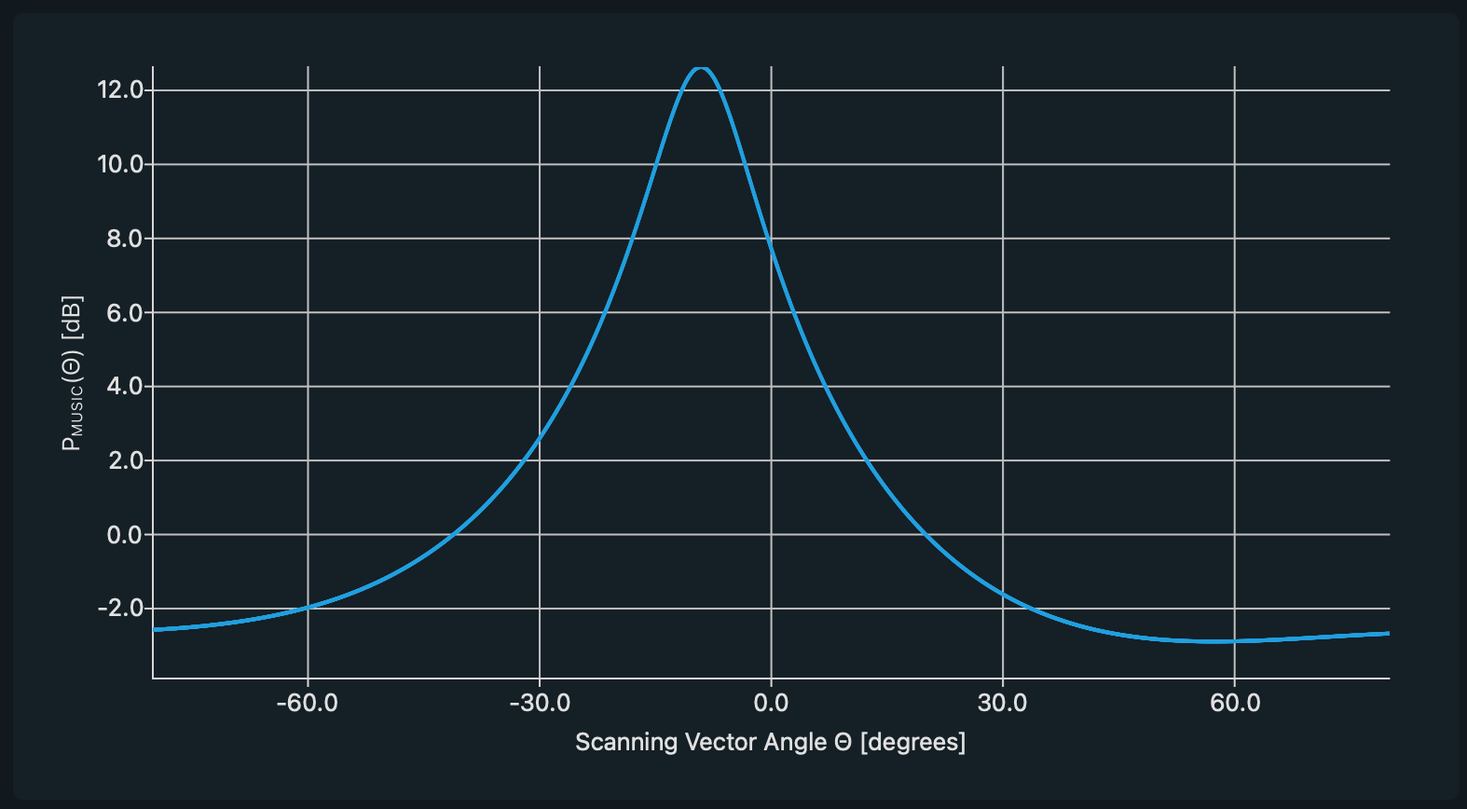
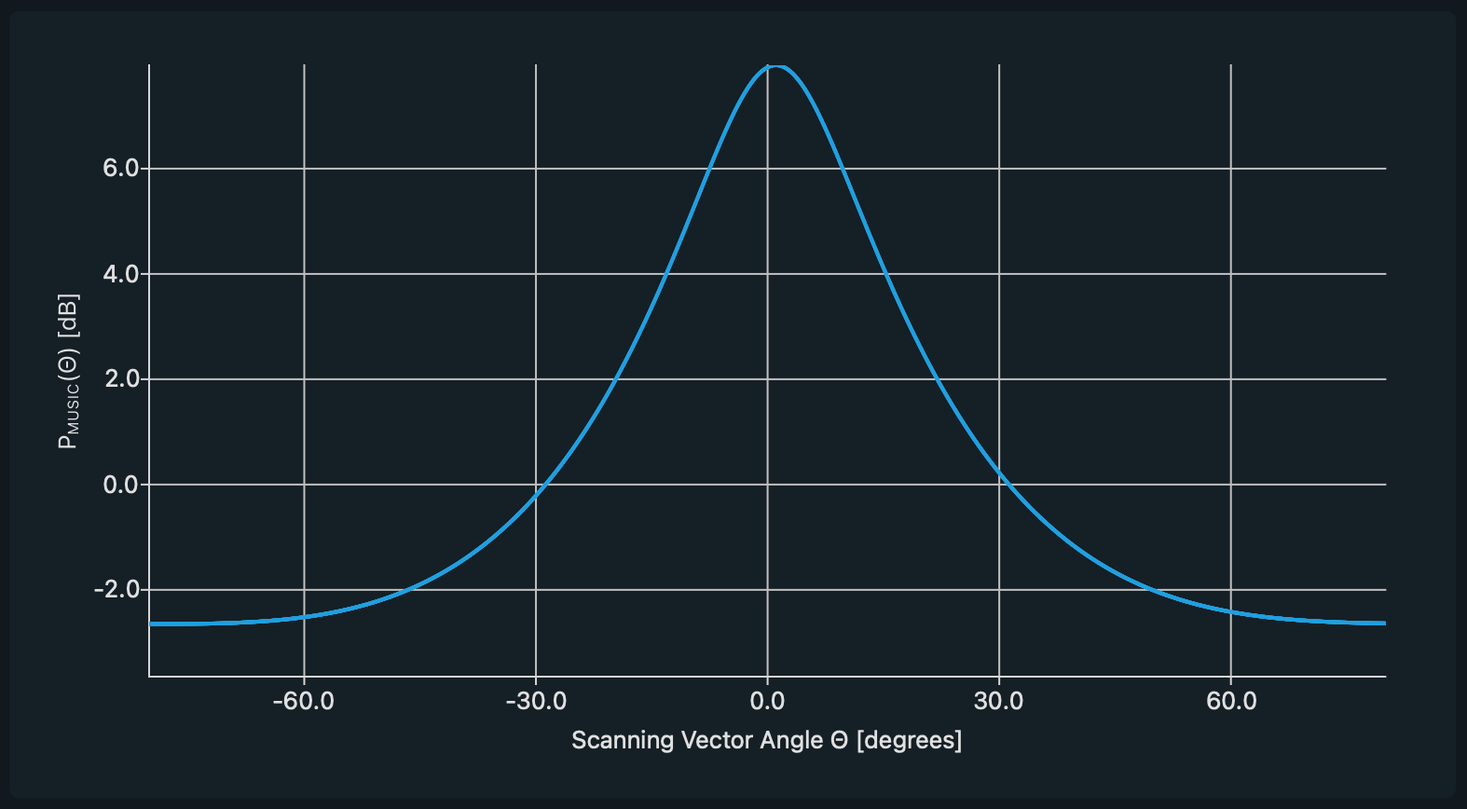
New Measurement

diff --git a/matlab/music_125MHz_M256_1m_0deg/cfr.m b/matlab/music_125MHz_M256_1m_0deg/cfr.m
@@ -1,116 +1,116 @@
 % Auto-generated MATLAB script
 clear;
-CH0_316 = [ ...
+CH0_4515 = [ ...
 0 + 1i*0, 0 + 1i*0, 0 + 1i*0, 0 + 1i*0, 0 + 1i*0,  ...
 0 + 1i*0, 0 + 1i*0, 0 + 1i*0, 0 + 1i*0, 0 + 1i*0,  ...
 0 + 1i*0, 0 + 1i*0, 0 + 1i*0, 0 + 1i*0, 0 + 1i*0,  ...
 0 + 1i*0, 0 + 1i*0, 0 + 1i*0, 0 + 1i*0, 0 + 1i*0,  ...
 0 + 1i*0, 0 + 1i*0, 0 + 1i*0, 0 + 1i*0, 0 + 1i*0,  ...
-0 + 1i*0, -1.18554 + 1i*-0.482535, -1.2277 + 1i*-0.481434, -1.26947 + 1i*-0.479128, -1.31084 + 1i*-0.475634,  ...
--1.35177 + 1i*-0.470973, -1.39227 + 1i*-0.465165, -1.4323 + 1i*-0.458228, -1.47184 + 1i*-0.450181, -1.51089 + 1i*-0.441045,  ...
--1.54942 + 1i*-0.43084, -1.58742 + 1i*-0.419584, -1.62487 + 1i*-0.407298, -1.66176 + 1i*-0.394, -1.69806 + 1i*-0.379712,  ...
--1.73378 + 1i*-0.364454, -1.76888 + 1i*-0.348243, -1.80336 + 1i*-0.331102, -1.83721 + 1i*-0.313048, -1.87041 + 1i*-0.294105,  ...
--1.90295 + 1i*-0.274289, -1.93482 + 1i*-0.253622, -1.966 + 1i*-0.232124, -1.99649 + 1i*-0.209813, -2.02626 + 1i*-0.186712,  ...
--2.05533 + 1i*-0.162838, -2.08366 + 1i*-0.138213, -2.11126 + 1i*-0.112857, -2.13812 + 1i*-0.0867883, -2.16422 + 1i*-0.0600278,  ...
--2.18955 + 1i*-0.0325956, -2.21411 + 1i*-0.0045127, -2.23789 + 1i*0.0242043, -2.26089 + 1i*0.0535323, -2.28309 + 1i*0.0834538,  ...
--2.30449 + 1i*0.113946, -2.32508 + 1i*0.144992, -2.34485 + 1i*0.176572, -2.36381 + 1i*0.208663, -2.38194 + 1i*0.241249,  ...
--2.39924 + 1i*0.274309, -2.4157 + 1i*0.307823, -2.43132 + 1i*0.341771, -2.4461 + 1i*0.376135, -2.46003 + 1i*0.410894,  ...
--2.4731 + 1i*0.446029, -2.48533 + 1i*0.481521, -2.49669 + 1i*0.51735, -2.50719 + 1i*0.553497, -2.51683 + 1i*0.589942,  ...
--2.5256 + 1i*0.626667, -2.5335 + 1i*0.66365, -2.54054 + 1i*0.700874, -2.5467 + 1i*0.73832, -2.55199 + 1i*0.775969,  ...
--2.55641 + 1i*0.813801, -2.55996 + 1i*0.851798, -2.56264 + 1i*0.889939, -2.56445 + 1i*0.928208, -2.56538 + 1i*0.966584,  ...
--2.56545 + 1i*1.00505, -2.56464 + 1i*1.04358, -2.56297 + 1i*1.08217, -2.56043 + 1i*1.12079, -2.55702 + 1i*1.15942,  ...
--2.55276 + 1i*1.19805, -2.54764 + 1i*1.23666, -2.54166 + 1i*1.27522, -2.53482 + 1i*1.31373, -2.52714 + 1i*1.35216,  ...
--2.51861 + 1i*1.39049, -2.50924 + 1i*1.42871, -2.49904 + 1i*1.4668, -2.488 + 1i*1.50474, -2.47613 + 1i*1.54251,  ...
--2.46345 + 1i*1.5801, -2.44994 + 1i*1.61748, -2.43563 + 1i*1.65464, -2.4205 + 1i*1.69157, -2.40458 + 1i*1.72824,  ...
--2.38788 + 1i*1.76463, -2.37038 + 1i*1.80074, -2.35211 + 1i*1.83654, -2.33307 + 1i*1.87202, -2.31326 + 1i*1.90716,  ...
--2.29271 + 1i*1.94194, -2.27141 + 1i*1.97635, -2.24937 + 1i*2.01036, -2.22661 + 1i*2.04398, -2.20313 + 1i*2.07716,  ...
--2.17894 + 1i*2.10991, -2.15405 + 1i*2.14221, -2.12848 + 1i*2.17403, -2.10223 + 1i*2.20537, -2.07531 + 1i*2.23621,  ...
--2.04775 + 1i*2.26653, -2.01953 + 1i*2.29632, -1.99069 + 1i*2.32556, -1.96123 + 1i*2.35424, -1.93116 + 1i*2.38234,  ...
--1.9005 + 1i*2.40985, -1.86927 + 1i*2.43676, -1.83746 + 1i*2.46305, 0 + 1i*0, -1.7722 + 1i*2.51372,  ...
--1.73878 + 1i*2.53807, -1.70485 + 1i*2.56175, -1.67042 + 1i*2.58474, -1.63551 + 1i*2.60704, -1.60014 + 1i*2.62862,  ...
--1.56432 + 1i*2.64948, -1.52807 + 1i*2.66961, -1.49141 + 1i*2.68899, -1.45434 + 1i*2.70761, -1.41689 + 1i*2.72546,  ...
--1.37908 + 1i*2.74254, -1.34093 + 1i*2.75882, -1.30244 + 1i*2.7743, -1.26364 + 1i*2.78897, -1.22455 + 1i*2.80282,  ...
--1.18519 + 1i*2.81584, -1.14557 + 1i*2.82802, -1.10572 + 1i*2.83936, -1.06565 + 1i*2.84983, -1.02539 + 1i*2.85945,  ...
--0.984944 + 1i*2.86819, -0.944351 + 1i*2.87606, -0.903622 + 1i*2.88303, -0.862777 + 1i*2.88912, -0.82184 + 1i*2.89431,  ...
--0.780833 + 1i*2.8986, -0.739773 + 1i*2.90197, -0.698686 + 1i*2.90443, -0.657594 + 1i*2.90598, -0.616516 + 1i*2.90659,  ...
--0.575477 + 1i*2.90629, 0 + 1i*0, 0 + 1i*0, 0 + 1i*0, 0 + 1i*0,  ...
-0 + 1i*0, 0 + 1i*0, 0 + 1i*0, 0 + 1i*0, 0 + 1i*0,  ...
-0 + 1i*0, 0 + 1i*0, 0 + 1i*0, 0 + 1i*0, 0 + 1i*0,  ...
-0 + 1i*0, 0 + 1i*0, 0 + 1i*0, 0 + 1i*0, 0 + 1i*0,  ...
-0 + 1i*0, 0.236111 + 1i*2.68407, 0.27033 + 1i*2.66337, 0.303958 + 1i*2.6418, 0.33697 + 1i*2.61935,  ...
-0.369343 + 1i*2.59603, 0.401049 + 1i*2.57186, 0.432064 + 1i*2.54685, 0.462367 + 1i*2.521, 0.491928 + 1i*2.49432,  ...
-0.520728 + 1i*2.46684, 0.548739 + 1i*2.43855, 0.575936 + 1i*2.40947, 0.602299 + 1i*2.37961, 0.627801 + 1i*2.34899,  ...
-0.652419 + 1i*2.31763, 0.676129 + 1i*2.28553, 0.698908 + 1i*2.25271, 0.720732 + 1i*2.21919, 0.741577 + 1i*2.18498,  ...
-0.761424 + 1i*2.1501, 0.780245 + 1i*2.11457, 0.798021 + 1i*2.0784, 0.81473 + 1i*2.04161, 0.830348 + 1i*2.00423,  ...
-0.844853 + 1i*1.96626, 0.858226 + 1i*1.92774, 0.870444 + 1i*1.88868, 0.881488 + 1i*1.84909, 0.891335 + 1i*1.80901,  ...
-0.899966 + 1i*1.76845, 0.907362 + 1i*1.72744, 0.913501 + 1i*1.68599, 0.918366 + 1i*1.64414, 0.921938 + 1i*1.6019,  ...
-0.924196 + 1i*1.55929, 0.925126 + 1i*1.51635, 0.924708 + 1i*1.47309, 0.922925 + 1i*1.42954, 0.91976 + 1i*1.38573,  ...
-0.915196 + 1i*1.34168, 0.909218 + 1i*1.29742, 0.90181 + 1i*1.25297, 0.892958 + 1i*1.20836, 0.882645 + 1i*1.16362,  ...
-0.870858 + 1i*1.11877, 0.857584 + 1i*1.07384, 0.842808 + 1i*1.02885, 0.826518 + 1i*0.983849, 0.808703 + 1i*0.938846,  ...
-0.789348 + 1i*0.893877, 0 + 1i*0, 0 + 1i*0, 0 + 1i*0, 0 + 1i*0,  ...
-0 + 1i*0, 0 + 1i*0, 0 + 1i*0, 0 + 1i*0, 0 + 1i*0,  ...
-0 + 1i*0, 0 + 1i*0, 0 + 1i*0, 0 + 1i*0, 0 + 1i*0,  ...
-0 + 1i*0, 0 + 1i*0, 0 + 1i*0, 0 + 1i*0, 0 + 1i*0,  ...
-0 + 1i*0, 0 + 1i*0, 0 + 1i*0, 0 + 1i*0, 0 + 1i*0,  ...
-0 + 1i*0];
-CH1_316 = [ ...
-0 + 1i*0, 0 + 1i*0, 0 + 1i*0, 0 + 1i*0, 0 + 1i*0,  ...
-0 + 1i*0, 0 + 1i*0, 0 + 1i*0, 0 + 1i*0, 0 + 1i*0,  ...
-0 + 1i*0, 0 + 1i*0, 0 + 1i*0, 0 + 1i*0, 0 + 1i*0,  ...
-0 + 1i*0, 0 + 1i*0, 0 + 1i*0, 0 + 1i*0, 0 + 1i*0,  ...
-0 + 1i*0, 0 + 1i*0, 0 + 1i*0, 0 + 1i*0, 0 + 1i*0,  ...
-0 + 1i*0, -0.630805 + 1i*1.40889, -0.662433 + 1i*1.44621, -0.694457 + 1i*1.48243, -0.726861 + 1i*1.51758,  ...
--0.759625 + 1i*1.55165, -0.792734 + 1i*1.58465, -0.826169 + 1i*1.61658, -0.859912 + 1i*1.64746, -0.893949 + 1i*1.67728,  ...
--0.92826 + 1i*1.70607, -0.962831 + 1i*1.73381, -0.997645 + 1i*1.76052, -1.03268 + 1i*1.78621, -1.06793 + 1i*1.81088,  ...
--1.10337 + 1i*1.83455, -1.139 + 1i*1.85721, -1.17478 + 1i*1.87887, -1.21071 + 1i*1.89955, -1.24677 + 1i*1.91925,  ...
--1.28295 + 1i*1.93798, -1.31923 + 1i*1.95574, -1.3556 + 1i*1.97255, -1.39204 + 1i*1.98842, -1.42853 + 1i*2.00334,  ...
--1.46507 + 1i*2.01734, -1.50165 + 1i*2.03041, -1.53823 + 1i*2.04257, -1.57482 + 1i*2.05382, -1.6114 + 1i*2.06418,  ...
--1.64796 + 1i*2.07365, -1.68447 + 1i*2.08225, -1.72094 + 1i*2.08997, -1.75735 + 1i*2.09684, -1.79368 + 1i*2.10285,  ...
--1.82992 + 1i*2.10802, -1.86606 + 1i*2.11236, -1.90209 + 1i*2.11588, -1.938 + 1i*2.11858, -1.97377 + 1i*2.12048,  ...
--2.0094 + 1i*2.12158, -2.04487 + 1i*2.1219, -2.08017 + 1i*2.12145, -2.11529 + 1i*2.12022, -2.15022 + 1i*2.11824,  ...
--2.18496 + 1i*2.11551, -2.21948 + 1i*2.11205, -2.25378 + 1i*2.10786, -2.28785 + 1i*2.10295, -2.32168 + 1i*2.09733,  ...
--2.35525 + 1i*2.09101, -2.38857 + 1i*2.084, -2.42163 + 1i*2.07632, -2.4544 + 1i*2.06797, -2.48688 + 1i*2.05896,  ...
--2.51907 + 1i*2.0493, -2.55096 + 1i*2.039, -2.58253 + 1i*2.02807, -2.61378 + 1i*2.01652, -2.6447 + 1i*2.00436,  ...
--2.67529 + 1i*1.99161, -2.70553 + 1i*1.97826, -2.73541 + 1i*1.96434, -2.76494 + 1i*1.94984, -2.79409 + 1i*1.93479,  ...
--2.82287 + 1i*1.91918, -2.85127 + 1i*1.90304, -2.87928 + 1i*1.88637, -2.90689 + 1i*1.86917, -2.9341 + 1i*1.85147,  ...
--2.96089 + 1i*1.83326, -2.98727 + 1i*1.81457, -3.01323 + 1i*1.7954, -3.03875 + 1i*1.77575, -3.06384 + 1i*1.75565,  ...
--3.08849 + 1i*1.73509, -3.11269 + 1i*1.71409, -3.13644 + 1i*1.69267, -3.15972 + 1i*1.67082, -3.18254 + 1i*1.64856,  ...
--3.20489 + 1i*1.6259, -3.22676 + 1i*1.60285, -3.24815 + 1i*1.57941, -3.26905 + 1i*1.55561, -3.28946 + 1i*1.53144,  ...
--3.30937 + 1i*1.50692, -3.32878 + 1i*1.48206, -3.34768 + 1i*1.45686, -3.36606 + 1i*1.43134, -3.38393 + 1i*1.40551,  ...
--3.40128 + 1i*1.37938, -3.4181 + 1i*1.35295, -3.43439 + 1i*1.32624, -3.45014 + 1i*1.29925, -3.46535 + 1i*1.272,  ...
--3.48002 + 1i*1.2445, -3.49413 + 1i*1.21675, -3.5077 + 1i*1.18877, -3.5207 + 1i*1.16056, -3.53315 + 1i*1.13214,  ...
--3.54503 + 1i*1.10351, -3.55633 + 1i*1.07468, -3.56707 + 1i*1.04567, 0 + 1i*0, -3.5868 + 1i*0.987138,  ...
--3.59579 + 1i*0.957632, -3.6042 + 1i*0.927979, -3.61201 + 1i*0.89819, -3.61922 + 1i*0.868276, -3.62583 + 1i*0.838244,  ...
--3.63184 + 1i*0.808108, -3.63725 + 1i*0.777876, -3.64204 + 1i*0.747556, -3.64622 + 1i*0.717162, -3.64979 + 1i*0.686703,  ...
--3.65273 + 1i*0.656188, -3.65505 + 1i*0.625629, -3.65675 + 1i*0.595034, -3.65781 + 1i*0.564416, -3.65825 + 1i*0.533783,  ...
--3.65804 + 1i*0.503148, -3.6572 + 1i*0.472519, -3.65572 + 1i*0.441908, -3.6536 + 1i*0.411325, -3.65083 + 1i*0.380782,  ...
--3.6474 + 1i*0.350286, -3.64333 + 1i*0.319853, -3.6386 + 1i*0.289492, -3.63321 + 1i*0.259213, -3.62717 + 1i*0.229027,  ...
--3.62046 + 1i*0.198946, -3.61308 + 1i*0.16898, -3.60504 + 1i*0.139144, -3.59633 + 1i*0.109444, -3.58694 + 1i*0.0798948,  ...
--3.57688 + 1i*0.0505081, 0 + 1i*0, 0 + 1i*0, 0 + 1i*0, 0 + 1i*0,  ...
-0 + 1i*0, 0 + 1i*0, 0 + 1i*0, 0 + 1i*0, 0 + 1i*0,  ...
-0 + 1i*0, 0 + 1i*0, 0 + 1i*0, 0 + 1i*0, 0 + 1i*0,  ...
-0 + 1i*0, 0 + 1i*0, 0 + 1i*0, 0 + 1i*0, 0 + 1i*0,  ...
-0 + 1i*0, -3.20681 + 1i*-0.507518, -3.18152 + 1i*-0.530178, -3.15553 + 1i*-0.552376, -3.12883 + 1i*-0.574098,  ...
--3.10144 + 1i*-0.595327, -3.07335 + 1i*-0.61605, -3.04455 + 1i*-0.63625, -3.01506 + 1i*-0.655912, -2.98487 + 1i*-0.67502,  ...
--2.95398 + 1i*-0.693559, -2.9224 + 1i*-0.711513, -2.89012 + 1i*-0.728866, -2.85715 + 1i*-0.745599, -2.8235 + 1i*-0.761698,  ...
--2.78915 + 1i*-0.777145, -2.75412 + 1i*-0.791923, -2.7184 + 1i*-0.806016, -2.68201 + 1i*-0.819406, -2.64493 + 1i*-0.832072,  ...
--2.60719 + 1i*-0.844002, -2.56877 + 1i*-0.855174, -2.52969 + 1i*-0.86557, -2.48995 + 1i*-0.875173, -2.44955 + 1i*-0.883963,  ...
--2.4085 + 1i*-0.891923, -2.3668 + 1i*-0.899031, -2.32446 + 1i*-0.905269, -2.28148 + 1i*-0.910618, -2.23787 + 1i*-0.915059,  ...
--2.19364 + 1i*-0.91857, -2.14879 + 1i*-0.921131, -2.10333 + 1i*-0.922722, -2.05727 + 1i*-0.923323, -2.01062 + 1i*-0.922913,  ...
--1.96338 + 1i*-0.921471, -1.91557 + 1i*-0.918974, -1.86719 + 1i*-0.915403, -1.81825 + 1i*-0.910734, -1.76876 + 1i*-0.904947,  ...
--1.71874 + 1i*-0.898019, -1.66819 + 1i*-0.889927, -1.61713 + 1i*-0.88065, -1.56556 + 1i*-0.870164, -1.51351 + 1i*-0.858446,  ...
--1.46098 + 1i*-0.845474, -1.408 + 1i*-0.831223, -1.35456 + 1i*-0.815671, -1.30069 + 1i*-0.798794, -1.24641 + 1i*-0.780568,  ...
--1.19172 + 1i*-0.760968, 0 + 1i*0, 0 + 1i*0, 0 + 1i*0, 0 + 1i*0,  ...
+0 + 1i*0, -0.230025 + 1i*1.28288, -0.257941 + 1i*1.31106, -0.286483 + 1i*1.33818, -0.315603 + 1i*1.36423,  ...
+-0.345256 + 1i*1.38922, -0.375398 + 1i*1.41316, -0.405987 + 1i*1.43605, -0.436983 + 1i*1.45792, -0.468347 + 1i*1.47876,  ...
+-0.500043 + 1i*1.49859, -0.532036 + 1i*1.51742, -0.564292 + 1i*1.53527, -0.596779 + 1i*1.55214, -0.629467 + 1i*1.56805,  ...
+-0.662328 + 1i*1.58302, -0.695333 + 1i*1.59706, -0.728457 + 1i*1.61017, -0.761674 + 1i*1.62238, -0.794962 + 1i*1.63371,  ...
+-0.828297 + 1i*1.64416, -0.861659 + 1i*1.65374, -0.895028 + 1i*1.66249, -0.928385 + 1i*1.6704, -0.961712 + 1i*1.67749,  ...
+-0.994991 + 1i*1.68378, -1.02821 + 1i*1.68928, -1.06135 + 1i*1.694, -1.09439 + 1i*1.69797, -1.12734 + 1i*1.70119,  ...
+-1.16016 + 1i*1.70367, -1.19285 + 1i*1.70543, -1.2254 + 1i*1.70648, -1.2578 + 1i*1.70683, -1.29004 + 1i*1.7065,  ...
+-1.32211 + 1i*1.7055, -1.354 + 1i*1.70384, -1.3857 + 1i*1.70153, -1.4172 + 1i*1.69858, -1.44851 + 1i*1.695,  ...
+-1.4796 + 1i*1.69081, -1.51048 + 1i*1.68601, -1.54113 + 1i*1.68061, -1.57156 + 1i*1.67462, -1.60175 + 1i*1.66806,  ...
+-1.6317 + 1i*1.66092, -1.66141 + 1i*1.65322, -1.69088 + 1i*1.64498, -1.72008 + 1i*1.63618, -1.74904 + 1i*1.62685,  ...
+-1.77773 + 1i*1.61699, -1.80616 + 1i*1.6066, -1.83431 + 1i*1.5957, -1.8622 + 1i*1.5843, -1.8898 + 1i*1.57239,  ...
+-1.91713 + 1i*1.55998, -1.94418 + 1i*1.54708, -1.97094 + 1i*1.53369, -1.9974 + 1i*1.51983, -2.02358 + 1i*1.50549,  ...
+-2.04946 + 1i*1.49069, -2.07503 + 1i*1.47542, -2.1003 + 1i*1.45969, -2.12527 + 1i*1.4435, -2.14992 + 1i*1.42687,  ...
+-2.17426 + 1i*1.40979, -2.19828 + 1i*1.39226, -2.22198 + 1i*1.3743, -2.24535 + 1i*1.3559, -2.26839 + 1i*1.33708,  ...
+-2.2911 + 1i*1.31782, -2.31346 + 1i*1.29815, -2.33549 + 1i*1.27805, -2.35717 + 1i*1.25754, -2.37849 + 1i*1.23662,  ...
+-2.39946 + 1i*1.21529, -2.42007 + 1i*1.19355, -2.44031 + 1i*1.17142, -2.46018 + 1i*1.14888, -2.47967 + 1i*1.12595,  ...
+-2.49878 + 1i*1.10263, -2.51749 + 1i*1.07893, -2.53582 + 1i*1.05484, -2.55375 + 1i*1.03037, -2.57126 + 1i*1.00552,  ...
+-2.58837 + 1i*0.980307, -2.60505 + 1i*0.954725, -2.62132 + 1i*0.928778, -2.63714 + 1i*0.902475, -2.65253 + 1i*0.875817,  ...
+-2.66747 + 1i*0.84881, -2.68196 + 1i*0.82146, -2.69599 + 1i*0.79377, -2.70954 + 1i*0.765747, -2.72262 + 1i*0.737397,  ...
+-2.73522 + 1i*0.708725, -2.74732 + 1i*0.679736, -2.75892 + 1i*0.650439, -2.77001 + 1i*0.620838, -2.78059 + 1i*0.590942,  ...
+-2.79064 + 1i*0.560757, -2.80016 + 1i*0.53029, -2.80913 + 1i*0.499552, 0 + 1i*0, -2.82541 + 1i*0.437287,  ...
+-2.83271 + 1i*0.405778, -2.83942 + 1i*0.374031, -2.84555 + 1i*0.342056, -2.85109 + 1i*0.309861, -2.85602 + 1i*0.277459,  ...
+-2.86033 + 1i*0.244859, -2.86403 + 1i*0.212072, -2.86709 + 1i*0.179111, -2.86952 + 1i*0.145987, -2.8713 + 1i*0.112713,  ...
+-2.87242 + 1i*0.0793035, -2.87287 + 1i*0.0457683, -2.87266 + 1i*0.0121231, -2.87176 + 1i*-0.021616, -2.87017 + 1i*-0.0554369,  ...
+-2.86788 + 1i*-0.0893229, -2.86489 + 1i*-0.123259, -2.86118 + 1i*-0.15723, -2.85676 + 1i*-0.191216, -2.85161 + 1i*-0.225203,  ...
+-2.84572 + 1i*-0.259171, -2.8391 + 1i*-0.293104, -2.83172 + 1i*-0.326983, -2.8236 + 1i*-0.360787, -2.81471 + 1i*-0.394497,  ...
+-2.80506 + 1i*-0.428096, -2.79465 + 1i*-0.461559, -2.78346 + 1i*-0.494869, -2.77149 + 1i*-0.528002, -2.75875 + 1i*-0.560937,  ...
+-2.74522 + 1i*-0.593651, -2.73091 + 1i*-0.626123, -2.7158 + 1i*-0.658328, -2.69991 + 1i*-0.690242, -2.68323 + 1i*-0.721843,  ...
+-2.66576 + 1i*-0.753105, -2.6475 + 1i*-0.784003, -2.62844 + 1i*-0.814513, -2.6086 + 1i*-0.844609, -2.58797 + 1i*-0.874264,  ...
+-2.56656 + 1i*-0.903452, -2.54437 + 1i*-0.932148, -2.5214 + 1i*-0.960323, -2.49766 + 1i*-0.987952, -2.47315 + 1i*-1.01501,  ...
+-2.44789 + 1i*-1.04146, -2.42187 + 1i*-1.06728, -2.39511 + 1i*-1.09244, -2.36761 + 1i*-1.11692, -2.33938 + 1i*-1.14068,  ...
+-2.31044 + 1i*-1.1637, -2.28079 + 1i*-1.18595, -2.25045 + 1i*-1.2074, -2.21942 + 1i*-1.22802, -2.18773 + 1i*-1.24778,  ...
+-2.15539 + 1i*-1.26665, -2.1224 + 1i*-1.28461, -2.0888 + 1i*-1.30162, -2.05459 + 1i*-1.31766, -2.01979 + 1i*-1.3327,  ...
+-1.98442 + 1i*-1.34672, -1.9485 + 1i*-1.35967, -1.91206 + 1i*-1.37154, -1.8751 + 1i*-1.38229, -1.83766 + 1i*-1.39191,  ...
+-1.79975 + 1i*-1.40036, -1.76141 + 1i*-1.40761, -1.72264 + 1i*-1.41365, -1.68349 + 1i*-1.41843, -1.64397 + 1i*-1.42195,  ...
+-1.60411 + 1i*-1.42416, -1.56394 + 1i*-1.42506, -1.52349 + 1i*-1.42461, -1.48278 + 1i*-1.42278, -1.44184 + 1i*-1.41957,  ...
+-1.40071 + 1i*-1.41494, -1.35941 + 1i*-1.40887, -1.31798 + 1i*-1.40134, -1.27644 + 1i*-1.39233, -1.23483 + 1i*-1.38182,  ...
+-1.19318 + 1i*-1.36979, -1.15152 + 1i*-1.35622, -1.10989 + 1i*-1.3411, -1.06832 + 1i*-1.3244, -1.02684 + 1i*-1.30611,  ...
+-0.985492 + 1i*-1.28621, -0.944301 + 1i*-1.2647, -0.903306 + 1i*-1.24154, -0.86254 + 1i*-1.21674, -0.822036 + 1i*-1.19027,  ...
+-0.781832 + 1i*-1.16213, -0.741957 + 1i*-1.1323, -0.70245 + 1i*-1.10078, -0.663341 + 1i*-1.06755, -0.624665 + 1i*-1.0326,  ...
+-0.586454 + 1i*-0.995928, -0.548742 + 1i*-0.957526, -0.511561 + 1i*-0.917385, -0.474943 + 1i*-0.875499, -0.438918 + 1i*-0.831864,  ...
+-0.403518 + 1i*-0.786473, 0 + 1i*0, 0 + 1i*0, 0 + 1i*0, 0 + 1i*0,  ...
 0 + 1i*0, 0 + 1i*0, 0 + 1i*0, 0 + 1i*0, 0 + 1i*0,  ...
 0 + 1i*0, 0 + 1i*0, 0 + 1i*0, 0 + 1i*0, 0 + 1i*0,  ...
 0 + 1i*0, 0 + 1i*0, 0 + 1i*0, 0 + 1i*0, 0 + 1i*0,  ...
 0 + 1i*0, 0 + 1i*0, 0 + 1i*0, 0 + 1i*0, 0 + 1i*0,  ...
 0 + 1i*0];
-figure;subplot(2,1,1); hold on;plot(abs(CH0_316), 'DisplayName', 'CH0_316');title('Channel Frequency Response Gain'); legend; grid on;
-subplot(2,1,2); hold on;plot(angle(CH0_316), 'DisplayName', 'CH0_316');title('Channel Frequency Response Phase'); legend; grid on;
-figure;plot(real(CH0_316), imag(CH0_316), '.', 'DisplayName', 'CH0_316'); hold on;title('CFR'); xlabel('Real'); ylabel('Imag'); axis equal; legend; grid on;
+CH1_4515 = [ ...
+0 + 1i*0, 0 + 1i*0, 0 + 1i*0, 0 + 1i*0, 0 + 1i*0,  ...
+0 + 1i*0, 0 + 1i*0, 0 + 1i*0, 0 + 1i*0, 0 + 1i*0,  ...
+0 + 1i*0, 0 + 1i*0, 0 + 1i*0, 0 + 1i*0, 0 + 1i*0,  ...
+0 + 1i*0, 0 + 1i*0, 0 + 1i*0, 0 + 1i*0, 0 + 1i*0,  ...
+0 + 1i*0, 0 + 1i*0, 0 + 1i*0, 0 + 1i*0, 0 + 1i*0,  ...
+0 + 1i*0, -2.06692 + 1i*0.637163, -2.11873 + 1i*0.653188, -2.16979 + 1i*0.668853, -2.22011 + 1i*0.684158,  ...
+-2.2697 + 1i*0.6991, -2.31859 + 1i*0.713677, -2.36677 + 1i*0.72789, -2.41427 + 1i*0.741739, -2.4611 + 1i*0.755222,  ...
+-2.50727 + 1i*0.768339, -2.55278 + 1i*0.781093, -2.59767 + 1i*0.793483, -2.64193 + 1i*0.805508, -2.68557 + 1i*0.817174,  ...
+-2.72862 + 1i*0.828479, -2.77107 + 1i*0.839427, -2.81294 + 1i*0.850017, -2.85423 + 1i*0.860254, -2.89497 + 1i*0.870139,  ...
+-2.93515 + 1i*0.879675, -2.97479 + 1i*0.888864, -3.0139 + 1i*0.89771, -3.05248 + 1i*0.906215, -3.09054 + 1i*0.914384,  ...
+-3.1281 + 1i*0.922219, -3.16516 + 1i*0.929724, -3.20172 + 1i*0.936902, -3.23779 + 1i*0.943758, -3.27339 + 1i*0.950294,  ...
+-3.30852 + 1i*0.956515, -3.34319 + 1i*0.962425, -3.37739 + 1i*0.968028, -3.41115 + 1i*0.973329, -3.44446 + 1i*0.978332,  ...
+-3.47733 + 1i*0.98304, -3.50977 + 1i*0.987459, -3.54178 + 1i*0.991593, -3.57338 + 1i*0.995447, -3.60455 + 1i*0.999024,  ...
+-3.63531 + 1i*1.00233, -3.66567 + 1i*1.00537, -3.69562 + 1i*1.00815, -3.72517 + 1i*1.01067, -3.75433 + 1i*1.01294,  ...
+-3.7831 + 1i*1.01496, -3.81149 + 1i*1.01674, -3.83949 + 1i*1.01828, -3.86712 + 1i*1.01959, -3.89437 + 1i*1.02066,  ...
+-3.92125 + 1i*1.02152, -3.94775 + 1i*1.02216, -3.97389 + 1i*1.02258, -3.99967 + 1i*1.0228, -4.02509 + 1i*1.02281,  ...
+-4.05015 + 1i*1.02262, -4.07485 + 1i*1.02223, -4.0992 + 1i*1.02166, -4.12319 + 1i*1.0209, -4.14683 + 1i*1.01997,  ...
+-4.17012 + 1i*1.01886, -4.19307 + 1i*1.01757, -4.21566 + 1i*1.01613, -4.23791 + 1i*1.01452, -4.25981 + 1i*1.01275,  ...
+-4.28137 + 1i*1.01083, -4.30259 + 1i*1.00877, -4.32346 + 1i*1.00656, -4.34398 + 1i*1.00422, -4.36416 + 1i*1.00174,  ...
+-4.384 + 1i*0.99913, -4.40349 + 1i*0.996399, -4.42264 + 1i*0.993544, -4.44145 + 1i*0.990576, -4.4599 + 1i*0.987496,  ...
+-4.47801 + 1i*0.984306, -4.49577 + 1i*0.981016, -4.51319 + 1i*0.977625, -4.53025 + 1i*0.97414, -4.54696 + 1i*0.970562,  ...
+-4.56331 + 1i*0.966899, -4.57931 + 1i*0.963154, -4.59495 + 1i*0.959328, -4.61023 + 1i*0.955427, -4.62515 + 1i*0.951455,  ...
+-4.6397 + 1i*0.947415, -4.65388 + 1i*0.943312, -4.6677 + 1i*0.939148, -4.68114 + 1i*0.934929, -4.69421 + 1i*0.930653,  ...
+-4.70689 + 1i*0.926329, -4.71919 + 1i*0.921959, -4.73111 + 1i*0.917544, -4.74263 + 1i*0.913092, -4.75376 + 1i*0.908601,  ...
+-4.76449 + 1i*0.904076, -4.77482 + 1i*0.899523, -4.78474 + 1i*0.894939, -4.79425 + 1i*0.890334, -4.80335 + 1i*0.885705,  ...
+-4.81202 + 1i*0.881057, -4.82026 + 1i*0.876393, -4.82808 + 1i*0.871714, 0 + 1i*0, -4.84239 + 1i*0.862327,  ...
+-4.84887 + 1i*0.857622, -4.8549 + 1i*0.852914, -4.86047 + 1i*0.848203, -4.86558 + 1i*0.843489, -4.87021 + 1i*0.838782,  ...
+-4.87436 + 1i*0.834077, -4.87803 + 1i*0.829378, -4.8812 + 1i*0.824687, -4.88388 + 1i*0.820005, -4.88604 + 1i*0.815333,  ...
+-4.8877 + 1i*0.810675, -4.88883 + 1i*0.806029, -4.88943 + 1i*0.801398, -4.88949 + 1i*0.796784, -4.88901 + 1i*0.792187,  ...
+-4.88797 + 1i*0.787607, -4.88637 + 1i*0.783047, -4.8842 + 1i*0.778505, -4.88145 + 1i*0.773986, -4.87811 + 1i*0.769487,  ...
+-4.87418 + 1i*0.765008, -4.86964 + 1i*0.760548, -4.86448 + 1i*0.756113, -4.8587 + 1i*0.751698, -4.85228 + 1i*0.747307,  ...
+-4.84521 + 1i*0.742936, -4.83749 + 1i*0.738583, -4.8291 + 1i*0.734254, -4.82004 + 1i*0.729944, -4.81029 + 1i*0.725653,  ...
+-4.79985 + 1i*0.72138, -4.78869 + 1i*0.717123, -4.77681 + 1i*0.712884, -4.76421 + 1i*0.708658, -4.75086 + 1i*0.704446,  ...
+-4.73675 + 1i*0.700245, -4.72188 + 1i*0.696054, -4.70623 + 1i*0.691872, -4.6898 + 1i*0.687695, -4.67255 + 1i*0.683524,  ...
+-4.6545 + 1i*0.679351, -4.63561 + 1i*0.675179, -4.61589 + 1i*0.671004, -4.59531 + 1i*0.666821, -4.57386 + 1i*0.66263,  ...
+-4.55154 + 1i*0.658426, -4.52832 + 1i*0.654204, -4.50419 + 1i*0.649967, -4.47914 + 1i*0.645704, -4.45316 + 1i*0.641413,  ...
+-4.42622 + 1i*0.637095, -4.39832 + 1i*0.632741, -4.36945 + 1i*0.628348, -4.33958 + 1i*0.62391, -4.3087 + 1i*0.619426,  ...
+-4.27679 + 1i*0.614887, -4.24385 + 1i*0.61029, -4.20985 + 1i*0.605631, -4.17479 + 1i*0.600905, -4.13864 + 1i*0.596102,  ...
+-4.10138 + 1i*0.59122, -4.06301 + 1i*0.586254, -4.02351 + 1i*0.581194, -3.98285 + 1i*0.576038, -3.94103 + 1i*0.570778,  ...
+-3.89803 + 1i*0.565407, -3.85382 + 1i*0.559918, -3.8084 + 1i*0.554305, -3.76174 + 1i*0.548561, -3.71383 + 1i*0.542678,  ...
+-3.66466 + 1i*0.536649, -3.61419 + 1i*0.530469, -3.56242 + 1i*0.524124, -3.50933 + 1i*0.517612, -3.45489 + 1i*0.510923,  ...
+-3.3991 + 1i*0.504049, -3.34192 + 1i*0.49698, -3.28335 + 1i*0.48971, -3.22337 + 1i*0.482229, -3.16195 + 1i*0.474528,  ...
+-3.09907 + 1i*0.4666, -3.03473 + 1i*0.458433, -2.96889 + 1i*0.450019, -2.90154 + 1i*0.44135, -2.83265 + 1i*0.432416,  ...
+-2.76222 + 1i*0.423205, -2.69021 + 1i*0.413711, -2.61661 + 1i*0.403923, -2.5414 + 1i*0.39383, -2.46456 + 1i*0.383423,  ...
+-2.38606 + 1i*0.372691, -2.30589 + 1i*0.361626, -2.22402 + 1i*0.350215, -2.14043 + 1i*0.338451, -2.05511 + 1i*0.326321,  ...
+-1.96803 + 1i*0.313815, -1.87916 + 1i*0.300925, -1.78849 + 1i*0.287639, -1.69599 + 1i*0.273945, -1.60165 + 1i*0.259834,  ...
+-1.50544 + 1i*0.245296, 0 + 1i*0, 0 + 1i*0, 0 + 1i*0, 0 + 1i*0,  ...
+0 + 1i*0, 0 + 1i*0, 0 + 1i*0, 0 + 1i*0, 0 + 1i*0,  ...
+0 + 1i*0, 0 + 1i*0, 0 + 1i*0, 0 + 1i*0, 0 + 1i*0,  ...
+0 + 1i*0, 0 + 1i*0, 0 + 1i*0, 0 + 1i*0, 0 + 1i*0,  ...
+0 + 1i*0, 0 + 1i*0, 0 + 1i*0, 0 + 1i*0, 0 + 1i*0,  ...
+0 + 1i*0];
+figure;subplot(2,1,1); hold on;plot(abs(CH0_4515), 'DisplayName', 'CH0_4515');title('Channel Frequency Response Gain'); legend; grid on;
+subplot(2,1,2); hold on;plot(angle(CH0_4515), 'DisplayName', 'CH0_4515');title('Channel Frequency Response Phase'); legend; grid on;
+figure;plot(real(CH0_4515), imag(CH0_4515), '.', 'DisplayName', 'CH0_4515'); hold on;title('CFR'); xlabel('Real'); ylabel('Imag'); axis equal; legend; grid on;
 
-figure;subplot(2,1,1); hold on;plot(abs(CH1_316), 'DisplayName', 'CH1_316');title('Channel Frequency Response Gain'); legend; grid on;
-subplot(2,1,2); hold on;plot(angle(CH1_316), 'DisplayName', 'CH1_316');title('Channel Frequency Response Phase'); legend; grid on;
-figure;plot(real(CH1_316), imag(CH1_316), '.', 'DisplayName', 'CH1_316'); hold on;title('CFR'); xlabel('Real'); ylabel('Imag'); axis equal; legend; grid on;
+figure;subplot(2,1,1); hold on;plot(abs(CH1_4515), 'DisplayName', 'CH1_4515');title('Channel Frequency Response Gain'); legend; grid on;
+subplot(2,1,2); hold on;plot(angle(CH1_4515), 'DisplayName', 'CH1_4515');title('Channel Frequency Response Phase'); legend; grid on;
+figure;plot(real(CH1_4515), imag(CH1_4515), '.', 'DisplayName', 'CH1_4515'); hold on;title('CFR'); xlabel('Real'); ylabel('Imag'); axis equal; legend; grid on;
 

diff --git a/matlab/music_125MHz_M256_1m_0deg/cbdata.m b/matlab/music_125MHz_M256_1m_0deg/cbdata.m
@@ -1,74 +1,80 @@
 % Auto-generated MATLAB script
 clear;
-CH1_316 = [ ...
--0.92959 + 1i*0.0472564, -1.27721 + 1i*-6.63921e-05, -1.5746 + 1i*0.0145591, 1.84359 + 1i*-0.0248215, 0.781188 + 1i*-0.00218702,  ...
-1.70667 + 1i*-0.0176991, 1.74197 + 1i*-0.0133808, 0.276812 + 1i*-0.00763096, -1.11149 + 1i*0.0134289, -0.51719 + 1i*-0.0146695,  ...
-0.566491 + 1i*-0.0243459, -1.0372 + 1i*-0.0101599, 1.60355 + 1i*0.000930529, 1.13165 + 1i*0.0097149, -1.55968 + 1i*0.00688237,  ...
--0.848286 + 1i*-0.0227366, -0.942198 + 1i*0.0365565, -0.919381 + 1i*0.0206329, 1.25611 + 1i*-0.0343855, 0.661848 + 1i*0.00353483,  ...
--0.75013 + 1i*0.0126501, -0.586767 + 1i*0.00998623, -1.54243 + 1i*0.0146595, -0.602248 + 1i*-0.0269397, 1.1372 + 1i*0.0147222,  ...
--1.04564 + 1i*-0.00514226, -0.799944 + 1i*0.00694955, 1.2148 + 1i*-0.0105492, 0.490923 + 1i*-0.0135543, -1.11635 + 1i*-0.00248383,  ...
--1.42814 + 1i*-0.00796551, 0.446453 + 1i*0.0114823, 0.896519 + 1i*-0.0067675, -0.612753 + 1i*-0.00423777, 0.788292 + 1i*-0.0233076,  ...
--1.05665 + 1i*-0.0140613, -1.1958 + 1i*0.0156937, -0.654251 + 1i*-0.00176006, -0.930911 + 1i*0.00538347, -1.04409 + 1i*-0.00738501,  ...
--1.2792 + 1i*-0.00956757, 0.869702 + 1i*0.0121582, -0.736269 + 1i*-0.00469681, 1.15556 + 1i*0.00137974, -0.884733 + 1i*-0.0286267,  ...
--1.43442 + 1i*-0.0141985, 1.18653 + 1i*-0.020425, -0.713449 + 1i*0.00698151, 0.912911 + 1i*-0.0292906, -1.57314 + 1i*-0.00792223,  ...
--0.601444 + 1i*-0.0155052, -1.28692 + 1i*0.00522454, 0.69776 + 1i*-0.0255708, 0.621671 + 1i*-0.00644137, 1.3548 + 1i*-0.0174718,  ...
-0.521047 + 1i*-0.0238958, 1.24501 + 1i*-0.0306386, 0.990457 + 1i*0.0290232, 0.733689 + 1i*-0.0259669, -1.06196 + 1i*0.000710916,  ...
-1.29592 + 1i*-0.00103325, 0.584035 + 1i*0.0162214, -1.09201 + 1i*-0.0171458, 0.570729 + 1i*0.0101682, -0.818677 + 1i*0.0214977,  ...
--0.738432 + 1i*-0.0120588, -1.49991 + 1i*-0.0115264, 1.01829 + 1i*-0.00163461, 1.31473 + 1i*-0.0130531, -0.793344 + 1i*-0.0166272,  ...
-1.02235 + 1i*0.00987727, -0.984407 + 1i*0.0340382, -1.2178 + 1i*-0.0119295, -0.833375 + 1i*-0.0307465, -0.970356 + 1i*0.0129641,  ...
-1.19564 + 1i*-0.013509, -1.04898 + 1i*-0.00838331, 1.32049 + 1i*0.00363683, -0.798718 + 1i*0.0145416, -1.48911 + 1i*-0.0170878,  ...
--0.97784 + 1i*-0.0331338, 1.14646 + 1i*0.0197923, -1.12376 + 1i*0.0182758, -0.857828 + 1i*-0.0348991, -1.29302 + 1i*0.0221843,  ...
--1.01281 + 1i*-0.0112646, -1.18964 + 1i*-0.00372076, 0.392918 + 1i*0.00636578, -1.61663 + 1i*-0.0379329, 0.470669 + 1i*0.0132106,  ...
-0.976573 + 1i*0.0122239, -0.956933 + 1i*-0.0275747, -1.02809 + 1i*-0.00531779, 1.13276 + 1i*0.000206403, 0.290543 + 1i*0.0291776,  ...
-1.15827 + 1i*-0.00201402, 0.898984 + 1i*0.000771422, -0.0406192 + 1i*-0.0116366, 0.80579 + 1i*0.0168842, 0.617032 + 1i*0.0129883,  ...
--1.06619 + 1i*-0.0403314, -1.13192 + 1i*0.0256761, -0.881729 + 1i*0.0204363, 0.964811 + 1i*-0.0264366, -1.21272 + 1i*0.0478277,  ...
-1.52697 + 1i*0.00570242, -0.850722 + 1i*0.0280356, -1.33637 + 1i*-0.0156364, 0.287139 + 1i*-0.0106794, 2.18009 + 1i*-0.00201166,  ...
--1.12967 + 1i*0.00750775, -1.09695 + 1i*-0.0177736, -0.576614 + 1i*0.0209911, -1.21197 + 1i*0.0148447, -0.828041 + 1i*0.0253508,  ...
-0.940083 + 1i*-0.0184632, 0.558235 + 1i*-0.028098, -0.679128 + 1i*0.015503, 1.0616 + 1i*-0.040155, 1.14491 + 1i*0.00847666,  ...
-1.55842 + 1i*-0.0300447, -0.670026 + 1i*0.0111941, 0.319611 + 1i*-0.0149163, 0.338842 + 1i*-0.0107186, -0.572624 + 1i*0.0352955,  ...
-0.613313 + 1i*-0.0228118, -0.527487 + 1i*0.00562184, 1.7379 + 1i*-0.029013, 0.987537 + 1i*-0.000156313, 0.534306 + 1i*-0.0282028,  ...
-1.07673 + 1i*-0.0252328, -0.650302 + 1i*0.0132369, 1.47163 + 1i*-0.0110711, 1.15943 + 1i*2.19718e-05, -0.56346 + 1i*0.0178811,  ...
--1.28325 + 1i*0.00947673, -1.1043 + 1i*-0.00467439, 1.05229 + 1i*0.0210963, -0.505922 + 1i*0.00254404, -1.04386 + 1i*0.0276526,  ...
-0.634515 + 1i*-0.0163777, -0.311966 + 1i*0.0318196, 1.35822 + 1i*-0.0242505, -1.4198 + 1i*0.0305395, 1.44905 + 1i*-0.00824246,  ...
-0.774763 + 1i*0.0223844, 0.682892 + 1i*-0.00763075, -1.35963 + 1i*0.0126881, -0.564742 + 1i*-0.0121769, 0.978037 + 1i*0.0227459,  ...
-1.54943 + 1i*-0.0366307, 1.10784 + 1i*-0.0180557, -0.849996 + 1i*0.0323428, -0.692142 + 1i*0.0202154, 1.09463 + 1i*-0.0208103,  ...
--1.75604 + 1i*0.0159976, -0.402544 + 1i*-0.0322985, 0.851566 + 1i*0.0140863, -1.05594 + 1i*0.0468784, 1.10362 + 1i*-0.0369642,  ...
--1.83726 + 1i*0.0511491];
-CH0_316 = [ ...
--0.916568 + 1i*0.0498833, -1.26561 + 1i*-0.00339426, -1.58081 + 1i*0.0439471, 1.82028 + 1i*-0.0127969, 0.7808 + 1i*-0.000686716,  ...
-1.70793 + 1i*-0.00133289, 1.74155 + 1i*-0.0310973, 0.297658 + 1i*-0.00409562, -1.10012 + 1i*0.0131392, -0.513072 + 1i*-0.00891645,  ...
-0.567356 + 1i*-0.0307776, -1.03177 + 1i*-0.00532719, 1.61082 + 1i*-0.0116876, 1.1581 + 1i*-0.00659337, -1.54889 + 1i*-0.00373476,  ...
--0.856484 + 1i*-0.0117792, -0.964658 + 1i*0.00505761, -0.90562 + 1i*0.0267016, 1.24679 + 1i*-0.0277084, 0.6791 + 1i*-0.0110109,  ...
--0.756558 + 1i*-0.00995115, -0.593913 + 1i*0.0154496, -1.53844 + 1i*0.0179284, -0.612121 + 1i*0.00915353, 1.1392 + 1i*-0.00507767,  ...
--1.0517 + 1i*0.0228188, -0.802522 + 1i*0.0190981, 1.21469 + 1i*-0.0220888, 0.497579 + 1i*-0.0213235, -1.11431 + 1i*0.00542009,  ...
--1.43104 + 1i*0.00664556, 0.45944 + 1i*0.00274926, 0.910496 + 1i*0.00678267, -0.593921 + 1i*0.0159644, 0.780742 + 1i*-0.0510593,  ...
--1.06265 + 1i*-0.0243636, -1.19555 + 1i*0.00586406, -0.651531 + 1i*-0.00550355, -0.953897 + 1i*-0.0144736, -1.065 + 1i*0.0114515,  ...
--1.29462 + 1i*-0.0201351, 0.876648 + 1i*0.0097329, -0.737496 + 1i*-0.00641476, 1.17968 + 1i*0.0185051, -0.887901 + 1i*-0.0277042,  ...
--1.43473 + 1i*-0.0231834, 1.17954 + 1i*-0.0054676, -0.740199 + 1i*-0.00610434, 0.927648 + 1i*-0.0421195, -1.58399 + 1i*-0.0307244,  ...
--0.632949 + 1i*-0.0125973, -1.31432 + 1i*0.0333415, 0.690638 + 1i*0.0125906, 0.585651 + 1i*0.0137397, 1.35866 + 1i*-0.0251682,  ...
-0.543936 + 1i*0.00265533, 1.2363 + 1i*-0.00677123, 0.997666 + 1i*0.00711327, 0.753922 + 1i*-0.0312241, -1.0563 + 1i*-0.0101924,  ...
-1.31715 + 1i*-0.0293716, 0.60323 + 1i*0.00185681, -1.10861 + 1i*-0.0504829, 0.56988 + 1i*-0.00444798, -0.807843 + 1i*0.0127313,  ...
--0.756922 + 1i*0.00797154, -1.51167 + 1i*-0.0387629, 1.04148 + 1i*-0.00765176, 1.33476 + 1i*-0.0239185, -0.794013 + 1i*-0.0170921,  ...
-0.994475 + 1i*0.0011704, -0.98159 + 1i*0.0148938, -1.21515 + 1i*-0.0334349, -0.834789 + 1i*-0.0300676, -0.963362 + 1i*-0.0167684,  ...
-1.18662 + 1i*-0.0102078, -1.07635 + 1i*-0.00366533, 1.33974 + 1i*0.0179845, -0.807266 + 1i*-0.0190717, -1.48162 + 1i*-0.0142631,  ...
--0.998887 + 1i*-0.0201387, 1.15535 + 1i*0.00465487, -1.15165 + 1i*-0.0120503, -0.867592 + 1i*-0.04676, -1.29895 + 1i*-0.00409743,  ...
--1.05265 + 1i*-0.00726758, -1.21181 + 1i*-0.0297234, 0.38001 + 1i*-0.00435363, -1.61485 + 1i*-0.0185798, 0.445849 + 1i*-0.0277836,  ...
-1.00435 + 1i*-0.0230793, -0.980394 + 1i*-0.0109225, -1.02844 + 1i*0.0192198, 1.14156 + 1i*0.0107045, 0.282914 + 1i*0.0266172,  ...
-1.1636 + 1i*-0.0142356, 0.911345 + 1i*-0.00633799, -0.0435693 + 1i*-0.0311097, 0.833285 + 1i*-0.00873308, 0.646434 + 1i*0.000452215,  ...
--1.03639 + 1i*-0.0455664, -1.14353 + 1i*0.0255188, -0.863428 + 1i*-0.0064333, 0.953421 + 1i*0.00689979, -1.21923 + 1i*0.0217465,  ...
-1.53456 + 1i*-0.00409573, -0.856971 + 1i*0.0159715, -1.32284 + 1i*0.0259864, 0.298891 + 1i*0.00851036, 2.18453 + 1i*-0.0383835,  ...
--1.14188 + 1i*0.0214641, -1.0787 + 1i*-0.0227658, -0.576468 + 1i*0.0108196, -1.21899 + 1i*0.0315341, -0.824569 + 1i*0.0416411,  ...
-0.936752 + 1i*-0.00245593, 0.575599 + 1i*-0.0158244, -0.670624 + 1i*0.0294747, 1.08382 + 1i*-0.00828765, 1.15783 + 1i*0.00520602,  ...
-1.55156 + 1i*-0.0248974, -0.654395 + 1i*0.00783922, 0.329106 + 1i*-0.0121462, 0.336086 + 1i*0.0161528, -0.583947 + 1i*0.0336488,  ...
-0.599645 + 1i*-0.00862126, -0.515466 + 1i*0.0372356, 1.74192 + 1i*-0.0192569, 1.01089 + 1i*-0.0150093, 0.534971 + 1i*-0.0181971,  ...
-1.06464 + 1i*-0.0337373, -0.66316 + 1i*0.0234286, 1.47431 + 1i*-0.0246814, 1.15696 + 1i*-0.0436344, -0.557619 + 1i*0.0172832,  ...
--1.26824 + 1i*0.0270237, -1.08431 + 1i*-0.000297643, 1.05869 + 1i*-0.00426549, -0.502714 + 1i*0.010814, -1.03497 + 1i*0.0280555,  ...
-0.651372 + 1i*-0.0054182, -0.321929 + 1i*0.00881861, 1.35508 + 1i*-0.0383201, -1.44726 + 1i*0.0477536, 1.45473 + 1i*-0.0040566,  ...
-0.780988 + 1i*0.00233454, 0.693398 + 1i*0.000276465, -1.36611 + 1i*0.0144238, -0.604044 + 1i*-0.00271055, 0.987949 + 1i*0.0205976,  ...
-1.54094 + 1i*-0.0405534, 1.13085 + 1i*-0.0273345, -0.857212 + 1i*0.0252971, -0.682689 + 1i*0.0126895, 1.09112 + 1i*-0.0373313,  ...
--1.76952 + 1i*0.0303539, -0.409855 + 1i*0.00355076, 0.838616 + 1i*-0.0152772, -1.03832 + 1i*0.0397473, 1.09636 + 1i*-0.0130211,  ...
--1.84472 + 1i*0.0293439];
-figure;plot(real(CH1_316), imag(CH1_316), '.', 'DisplayName', 'CH1_316'); hold on;
-plot(real(CH0_316), imag(CH0_316), '.', 'DisplayName', 'CH0_316'); hold on;
+CH1_4515 = [ ...
+-1.85393 + 1i*0.0504136, -0.839274 + 1i*0.00963898, -0.631824 + 1i*0.010846, 1.11566 + 1i*-0.0265435, 1.00462 + 1i*-0.0256714,  ...
+1.41373 + 1i*-0.016698, 0.842769 + 1i*-0.0286022, 0.603439 + 1i*-0.0177361, -1.19835 + 1i*0.021899, -0.81738 + 1i*0.0100567,  ...
+1.03064 + 1i*-0.0372259, -0.847384 + 1i*0.030756, 0.63605 + 1i*-0.014459, 1.14622 + 1i*-0.0374703, -0.985913 + 1i*0.0244829,  ...
+-1.24581 + 1i*0.0419823, -1.07843 + 1i*0.024923, -1.16853 + 1i*0.0387692, 1.5446 + 1i*-0.0468116, 0.488869 + 1i*-0.00446687,  ...
+-1.22218 + 1i*0.0152951, -0.860166 + 1i*0.0283543, -0.988552 + 1i*0.0279814, -0.578973 + 1i*0.00177394, 1.83486 + 1i*-0.0441701,  ...
+-0.971657 + 1i*0.0427792, -1.10807 + 1i*0.0282423, 0.730628 + 1i*-0.0226796, 1.04054 + 1i*-0.0427968, -1.18252 + 1i*0.02598,  ...
+-1.03269 + 1i*0.0390493, 1.01673 + 1i*-0.038987, 0.284992 + 1i*-0.0121188, -1.1015 + 1i*0.0209917, 0.289025 + 1i*-0.00267287,  ...
+-0.492342 + 1i*0.00709301, -1.16087 + 1i*0.0266622, -0.5487 + 1i*0.00357138, -1.30357 + 1i*0.032119, -1.12494 + 1i*0.0285862,  ...
+-0.421704 + 1i*0.00544675, 0.376321 + 1i*-0.00251853, -0.279459 + 1i*0.00630323, 1.36071 + 1i*-0.0258432, -1.12463 + 1i*0.0054961,  ...
+-0.498218 + 1i*-0.000364855, 0.767162 + 1i*-0.0139113, -1.29571 + 1i*0.0168853, -0.0145584 + 1i*-0.00384844, -1.21572 + 1i*0.0127938,  ...
+-0.798617 + 1i*0.00522659, -1.0447 + 1i*0.016962, 0.676822 + 1i*-0.016914, -0.0674033 + 1i*0.0065592, 0.982787 + 1i*-0.00879766,  ...
+1.38846 + 1i*-0.0190162, 0.989865 + 1i*-0.00441964, 0.687634 + 1i*-0.0137505, 0.780899 + 1i*-0.0179423, -0.506967 + 1i*-0.0171363,  ...
+0.806349 + 1i*-0.000469774, 0.87347 + 1i*-0.010859, -0.987762 + 1i*0.00190252, 0.474143 + 1i*0.00903004, -0.611809 + 1i*-0.00617133,  ...
+-0.455818 + 1i*0.00679864, -0.951438 + 1i*-0.0144592, 0.801227 + 1i*0.00596022, 0.624599 + 1i*-0.00558005, -0.177083 + 1i*0.000347277,  ...
+0.769067 + 1i*0.0139451, -0.384907 + 1i*-0.00932597, -0.192368 + 1i*-0.0166634, -1.2862 + 1i*-0.0256024, -0.809609 + 1i*-0.0254327,  ...
+1.27122 + 1i*0.0210792, -0.701976 + 1i*-0.0131444, 0.5003 + 1i*0.0242879, -0.950028 + 1i*-0.028335, -0.622594 + 1i*-0.0238924,  ...
+-0.404346 + 1i*-0.0110516, 1.34522 + 1i*0.0234388, -2.19189 + 1i*-0.0845977, -1.38391 + 1i*-0.0639526, -1.07072 + 1i*-0.0494437,  ...
+-0.542653 + 1i*-0.0246557, -0.795019 + 1i*-0.0190146, 1.32999 + 1i*0.032502, -1.52992 + 1i*-0.0635499, 0.803277 + 1i*0.00756756,  ...
+1.61933 + 1i*0.00375842, -1.09104 + 1i*-0.02295, -0.886579 + 1i*-0.00379558, 0.865206 + 1i*0.00684167, 1.47486 + 1i*0.0167545,  ...
+1.52968 + 1i*0.0350289, 0.781684 + 1i*0.0098351, -0.894307 + 1i*-0.00227693, 0.318364 + 1i*0.00816189, 0.883826 + 1i*0.0142935,  ...
+-1.00657 + 1i*-0.0168293, -1.43762 + 1i*-0.00330339, -0.172823 + 1i*-0.0114439, 0.510915 + 1i*0.010266, -0.994277 + 1i*-0.00293854,  ...
+0.865643 + 1i*0.0195341, -1.34665 + 1i*-0.0107932, -0.722436 + 1i*-0.0137732, 0.186391 + 1i*0.00152353, 1.25874 + 1i*0.0146409,  ...
+-0.827976 + 1i*-0.0138214, -0.932076 + 1i*0.00405531, -0.926334 + 1i*-0.0160894, -1.20653 + 1i*-0.013458, -0.550286 + 1i*-0.0124312,  ...
+0.796132 + 1i*0.0170524, 0.805621 + 1i*1.0848e-05, -0.749953 + 1i*-0.00708033, 0.579595 + 1i*0.0216042, 1.00306 + 1i*0.00157286,  ...
+-0.209902 + 1i*-0.00232254, -1.06166 + 1i*-0.0232958, 1.12634 + 1i*0.00410992, 0.407876 + 1i*-0.00306824, -1.42679 + 1i*-0.00682486,  ...
+0.177855 + 1i*-0.00288348, -1.07436 + 1i*0.0056475, 1.15878 + 1i*0.0199648, 0.781837 + 1i*0.0204746, 0.600382 + 1i*0.00785179,  ...
+0.379744 + 1i*0.0189325, -0.699031 + 1i*-0.00047446, 0.561625 + 1i*0.00844741, 1.39304 + 1i*0.00796308, -0.753394 + 1i*-0.0115387,  ...
+-0.814442 + 1i*0.00138021, -1.27941 + 1i*-0.000387095, 0.610316 + 1i*-0.000826612, -1.58988 + 1i*0.0158331, -0.74778 + 1i*0.00788211,  ...
+0.62218 + 1i*-0.00167762, -1.13918 + 1i*0.0110032, 0.968204 + 1i*0.000341989, 0.00432426 + 1i*-0.00363777, 0.869812 + 1i*0.00431591,  ...
+0.633929 + 1i*-0.00217916, 1.76643 + 1i*-0.0176183, -0.883235 + 1i*0.0206034, 0.00563851 + 1i*0.0105157, 0.927833 + 1i*-0.010356,  ...
+0.651663 + 1i*-0.0100867, 0.939091 + 1i*0.00741411, -1.60603 + 1i*0.0345262, -0.349021 + 1i*-0.00878115, 1.19405 + 1i*-0.00956355,  ...
+-0.555081 + 1i*0.0227471, -1.53923 + 1i*0.0338108, 2.029 + 1i*-0.0194951, -1.07543 + 1i*0.0188438, 0.950836 + 1i*-0.0176612,  ...
+-0.583504 + 1i*0.0260342, 0.85926 + 1i*-0.00695477, -1.5468 + 1i*0.0434687, 0.660636 + 1i*-0.00777106, 1.11714 + 1i*-0.027185,  ...
+0.829985 + 1i*-0.0232748, 0.796728 + 1i*-0.0040727, 1.42418 + 1i*-0.0252808, 1.56275 + 1i*-0.0235819, 0.841742 + 1i*-0.0136183,  ...
+0.86622 + 1i*-0.0302069, 1.20181 + 1i*-0.0355878, -1.5286 + 1i*0.0245934, 1.33304 + 1i*-0.0463037, 1.29139 + 1i*-0.0349315,  ...
+1.06543 + 1i*-0.0188872, 1.14987 + 1i*-0.0191031, -0.821376 + 1i*0.064609];
+CH0_4515 = [ ...
+-1.87608 + 1i*-0.0605711, -0.83723 + 1i*-0.0465925, -0.643257 + 1i*-0.0384643, 1.11963 + 1i*0.0437409, 1.01191 + 1i*0.024816,  ...
+1.42666 + 1i*0.0717955, 0.852013 + 1i*0.0113184, 0.607575 + 1i*0.00624088, -1.20974 + 1i*-0.0383146, -0.820111 + 1i*-0.0497534,  ...
+1.03101 + 1i*0.0316708, -0.860064 + 1i*-0.0270803, 0.652976 + 1i*0.00885554, 1.14474 + 1i*0.0324665, -0.999721 + 1i*-0.0339788,  ...
+-1.25608 + 1i*-0.0140532, -1.07676 + 1i*-0.0493984, -1.17728 + 1i*-0.0299519, 1.57372 + 1i*0.0518524, 0.467792 + 1i*0.0367133,  ...
+-1.20784 + 1i*-0.0508027, -0.842537 + 1i*-0.0280302, -0.994082 + 1i*-0.0311255, -0.575583 + 1i*-0.027949, 1.84285 + 1i*0.0521235,  ...
+-0.989444 + 1i*6.98455e-05, -1.10204 + 1i*-0.0289016, 0.723727 + 1i*0.0206931, 1.03286 + 1i*0.0186593, -1.17281 + 1i*-0.0386508,  ...
+-1.04844 + 1i*-0.00803223, 1.02208 + 1i*0.0118752, 0.272342 + 1i*0.0109525, -1.09811 + 1i*-0.0280703, 0.287645 + 1i*0.00026655,  ...
+-0.515759 + 1i*-0.0226771, -1.15148 + 1i*-0.0327136, -0.548064 + 1i*-0.0263378, -1.32577 + 1i*-0.0179846, -1.11664 + 1i*-0.0136395,  ...
+-0.413371 + 1i*-0.0273891, 0.36855 + 1i*0.0236806, -0.27192 + 1i*0.00687516, 1.37083 + 1i*0.0256376, -1.12434 + 1i*-0.0354207,  ...
+-0.500444 + 1i*-0.0225779, 0.764483 + 1i*-0.00155725, -1.30263 + 1i*-0.0315367, -0.0033233 + 1i*-0.00901452, -1.24259 + 1i*-0.0320462,  ...
+-0.811278 + 1i*-0.0279463, -1.06661 + 1i*-0.00275642, 0.698133 + 1i*-0.0226853, -0.0689847 + 1i*0.0102213, 0.998188 + 1i*0.00942027,  ...
+1.38405 + 1i*0.0181614, 0.992582 + 1i*0.0182572, 0.702807 + 1i*0.00199289, 0.782369 + 1i*-0.00193002, -0.491919 + 1i*-0.00223128,  ...
+0.809644 + 1i*-0.0138858, 0.855613 + 1i*0.00162406, -1.00558 + 1i*0.00490134, 0.474287 + 1i*-0.0105126, -0.62243 + 1i*0.0128599,  ...
+-0.480823 + 1i*0.0210099, -0.95105 + 1i*0.0231546, 0.80392 + 1i*-0.00776062, 0.609992 + 1i*-0.0199029, -0.194553 + 1i*0.0166818,  ...
+0.775074 + 1i*-0.00708089, -0.395111 + 1i*0.0228414, -0.189189 + 1i*0.0114843, -1.2988 + 1i*0.0339134, -0.790295 + 1i*-0.00246687,  ...
+1.26164 + 1i*-0.0281865, -0.717406 + 1i*0.028382, 0.494396 + 1i*-0.0128267, -0.967625 + 1i*-0.00341927, -0.602766 + 1i*-0.013811,  ...
+-0.401908 + 1i*0.00726844, 1.36101 + 1i*-0.0266309, -2.21158 + 1i*0.0147464, -1.37596 + 1i*0.00168203, -1.08784 + 1i*-0.00964278,  ...
+-0.531399 + 1i*0.015778, -0.818689 + 1i*0.0347145, 1.3504 + 1i*-0.0253259, -1.54422 + 1i*0.0160805, 0.817106 + 1i*0.0524929,  ...
+1.62237 + 1i*0.0210241, -1.06382 + 1i*0.00785113, -0.891855 + 1i*-0.0249566, 0.884694 + 1i*0.00713925, 1.48988 + 1i*0.027014,  ...
+1.53294 + 1i*0.0278551, 0.770121 + 1i*0.000215782, -0.911093 + 1i*0.0127655, 0.300847 + 1i*-0.00791241, 0.864853 + 1i*0.0185211,  ...
+-1.01322 + 1i*0.0121683, -1.45631 + 1i*0.0414926, -0.170491 + 1i*-0.0083326, 0.507973 + 1i*-0.00741884, -0.996174 + 1i*0.0307671,  ...
+0.851783 + 1i*-0.0242217, -1.38394 + 1i*0.0627765, -0.733661 + 1i*0.0266935, 0.193133 + 1i*0.00349874, 1.24577 + 1i*-0.0282302,  ...
+-0.854643 + 1i*0.0431548, -0.923636 + 1i*0.0437913, -0.930065 + 1i*0.0391646, -1.19766 + 1i*0.0565889, -0.550665 + 1i*0.0172862,  ...
+0.796659 + 1i*-0.02215, 0.807897 + 1i*-0.0422383, -0.752561 + 1i*0.0303188, 0.566683 + 1i*0.00122254, 1.01311 + 1i*-0.0432426,  ...
+-0.228565 + 1i*0.0182227, -1.0434 + 1i*0.0120108, 1.11724 + 1i*-0.0451394, 0.38254 + 1i*-0.0279058, -1.44595 + 1i*0.0725099,  ...
+0.194452 + 1i*-0.0220235, -1.09026 + 1i*0.0685779, 1.17377 + 1i*-0.0475744, 0.772833 + 1i*-0.0215401, 0.595231 + 1i*-0.0118215,  ...
+0.354844 + 1i*0.00371403, -0.711078 + 1i*0.0169173, 0.547816 + 1i*-0.0081571, 1.40732 + 1i*-0.0429147, -0.772081 + 1i*0.0221252,  ...
+-0.822152 + 1i*0.0481774, -1.28589 + 1i*0.032936, 0.610556 + 1i*-0.0217816, -1.60644 + 1i*0.0366878, -0.733188 + 1i*0.0286734,  ...
+0.627412 + 1i*-0.00410885, -1.13109 + 1i*0.0325481, 0.983934 + 1i*-0.00994387, 0.0211751 + 1i*0.00448546, 0.875623 + 1i*-0.000246162,  ...
+0.634337 + 1i*-0.0196133, 1.76226 + 1i*-0.0319438, -0.883978 + 1i*0.0450458, -0.00494643 + 1i*0.000916664, 0.908649 + 1i*-0.0272277,  ...
+0.657879 + 1i*-0.00450646, 0.93291 + 1i*0.0154709, -1.61539 + 1i*0.0207704, -0.351012 + 1i*0.00294494, 1.197 + 1i*-0.00907593,  ...
+-0.589249 + 1i*0.0313143, -1.52746 + 1i*0.00757811, 2.02345 + 1i*0.0190573, -1.10672 + 1i*-0.0157862, 0.969016 + 1i*-0.0109282,  ...
+-0.620573 + 1i*0.011887, 0.860217 + 1i*0.0187633, -1.56645 + 1i*-0.00347776, 0.69232 + 1i*0.00939773, 1.10917 + 1i*-0.00551097,  ...
+0.836013 + 1i*0.00692863, 0.80968 + 1i*0.0184513, 1.40905 + 1i*0.0109871, 1.57821 + 1i*0.0238817, 0.831141 + 1i*0.028191,  ...
+0.898323 + 1i*-0.00144787, 1.19183 + 1i*0.0219175, -1.52403 + 1i*-0.0367653, 1.36695 + 1i*0.0214858, 1.26662 + 1i*0.0167578,  ...
+1.07331 + 1i*0.0425267, 1.13879 + 1i*0.037279, -0.836894 + 1i*-0.00660046];
+figure;plot(real(CH1_4515), imag(CH1_4515), '.', 'DisplayName', 'CH1_4515'); hold on;
+plot(real(CH0_4515), imag(CH0_4515), '.', 'DisplayName', 'CH0_4515'); hold on;
 title('Received Data'); xlabel('Real'); ylabel('Imag'); axis equal; legend; grid on;
 

diff --git a/src/main.cc b/src/main.cc
@@ -50,8 +50,8 @@
 
 #define NUM_CHANNELS 2                                          // Number of Channels (USRP-devices)   
 #define SYMBOLS_PER_FRAME 1                                     // Number of Symbols to send per frame 
-#define OUTFILE_CFR "./matlab/music_125MHz_M256_1m_45deg/cfr.m"         // Output file in MATLAB-format to store results
-#define OUTFILE_CBDATA "./matlab/music_125MHz_M256_1m_45deg/cbdata.m"   // Output file in MATLAB-format to store results
+#define OUTFILE_CFR "./matlab/music_125MHz_M256_1m_0deg/cfr.m"         // Output file in MATLAB-format to store results
+#define OUTFILE_CBDATA "./matlab/music_125MHz_M256_1m_0deg/cbdata.m"   // Output file in MATLAB-format to store results
 
 #define PYTHONPATH "./music/env/bin/python"
 #define MUSIC_PYFILE "./music/music-spectrum.py"                // Python script with MUSIC algorithm for DoA estimation
